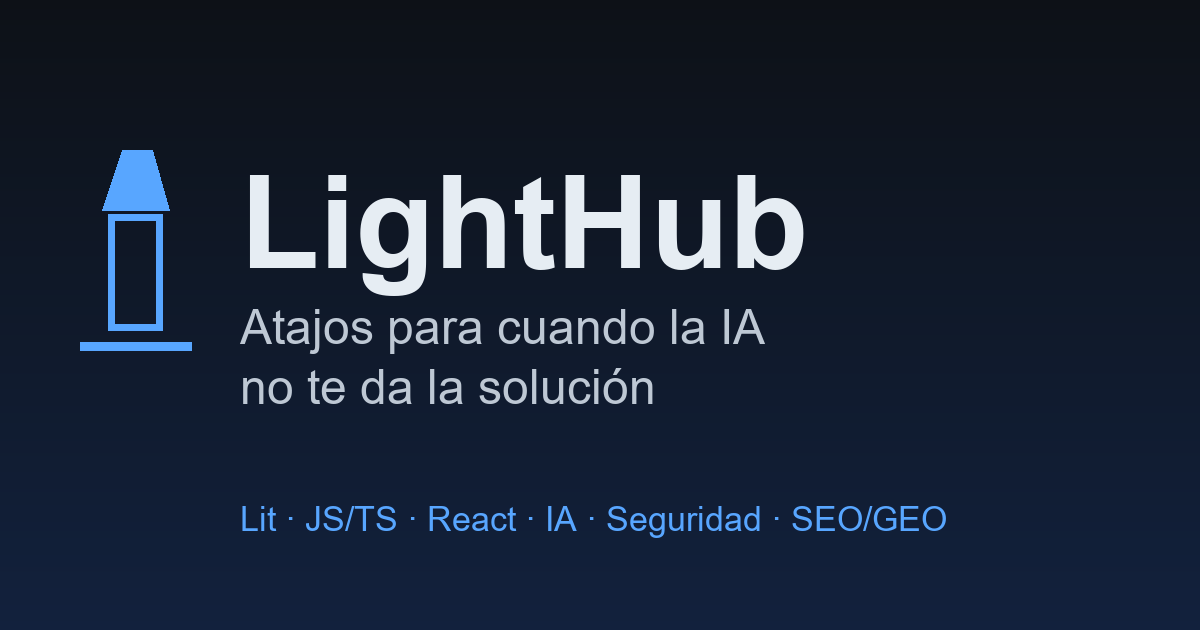
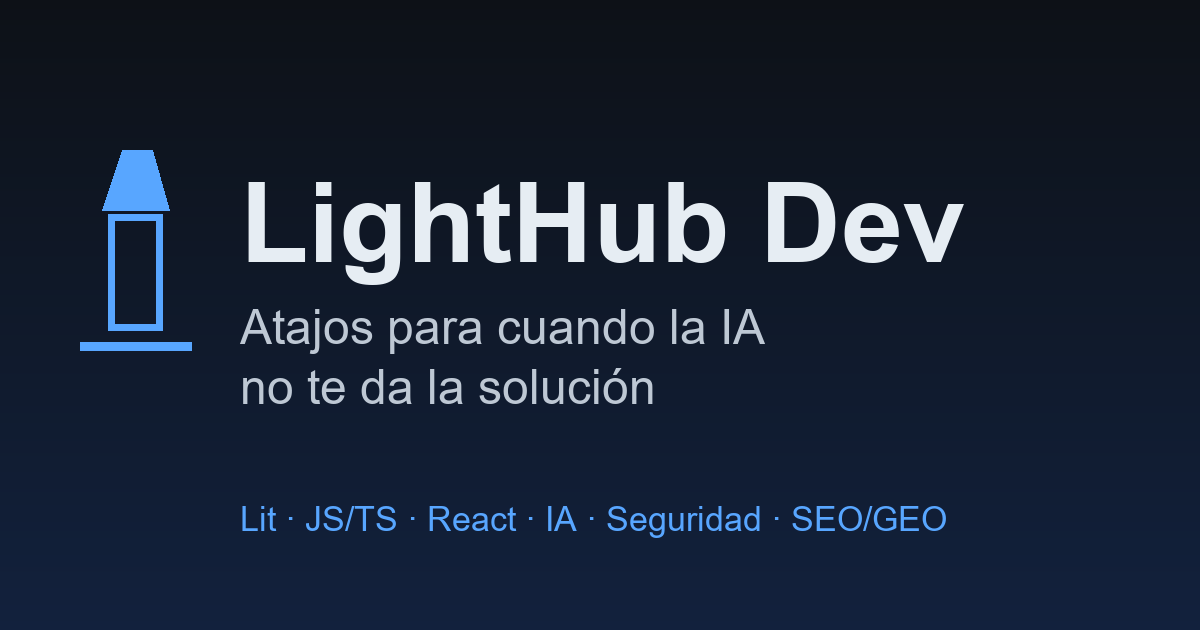
Renombrado a LightHub Dev (nombre visible, README, imagen para compartir)

Changed region(s): [[0.185, 0.2714, 0.8017, 0.4825]]

diff --git a/assets/style.css b/assets/style.css
@@ -1,4 +1,4 @@
-/* LightHub · misma estructura que Placet (barra lateral por bloques, cabecera con pestañas, tarjetas) con paleta azul de herramientas de desarrollo */
+/* LightHub Dev · misma estructura que Placet (barra lateral por bloques, cabecera con pestañas, tarjetas) con paleta azul de herramientas de desarrollo */
 :root{--pl:#0969da;--pls:#ddf4ff;--pd:#58a6ff;--pds:#12233f;
 --bg:#f6f8fa;--surface:#fff;--surface-2:#eaeef2;--text:#1f2328;--muted:#59636e;--line:#d1d9e0;
 --primary:var(--pl);--primary-ink:#fff;--primary-soft:var(--pls);

diff --git a/build.py b/build.py
@@ -9,7 +9,7 @@ from urllib.parse import urlparse
 
 ROOT = Path(__file__).parent
 OUT = ROOT / "dist"
-SITE = "LightHub"
+SITE = "LightHub Dev"
 SITE_URL = os.environ.get("SITE_URL", "").rstrip("/")
 PREFIX = urlparse(SITE_URL).path.rstrip("/") + "/" if SITE_URL else "/"   # para el 404
 DEFAULT = "es"

diff --git a/README.md b/README.md
@@ -1,4 +1,4 @@
-# LightHub
+# LightHub Dev
 
 Atajos para cuando la IA no te da la solución: guías cortas de Lit, JS/TS, React/Angular, IA y agentes, seguridad con IA y SEO/GEO. Sitio **estático** (HTML generado, sin dependencias de ejecución).
 
